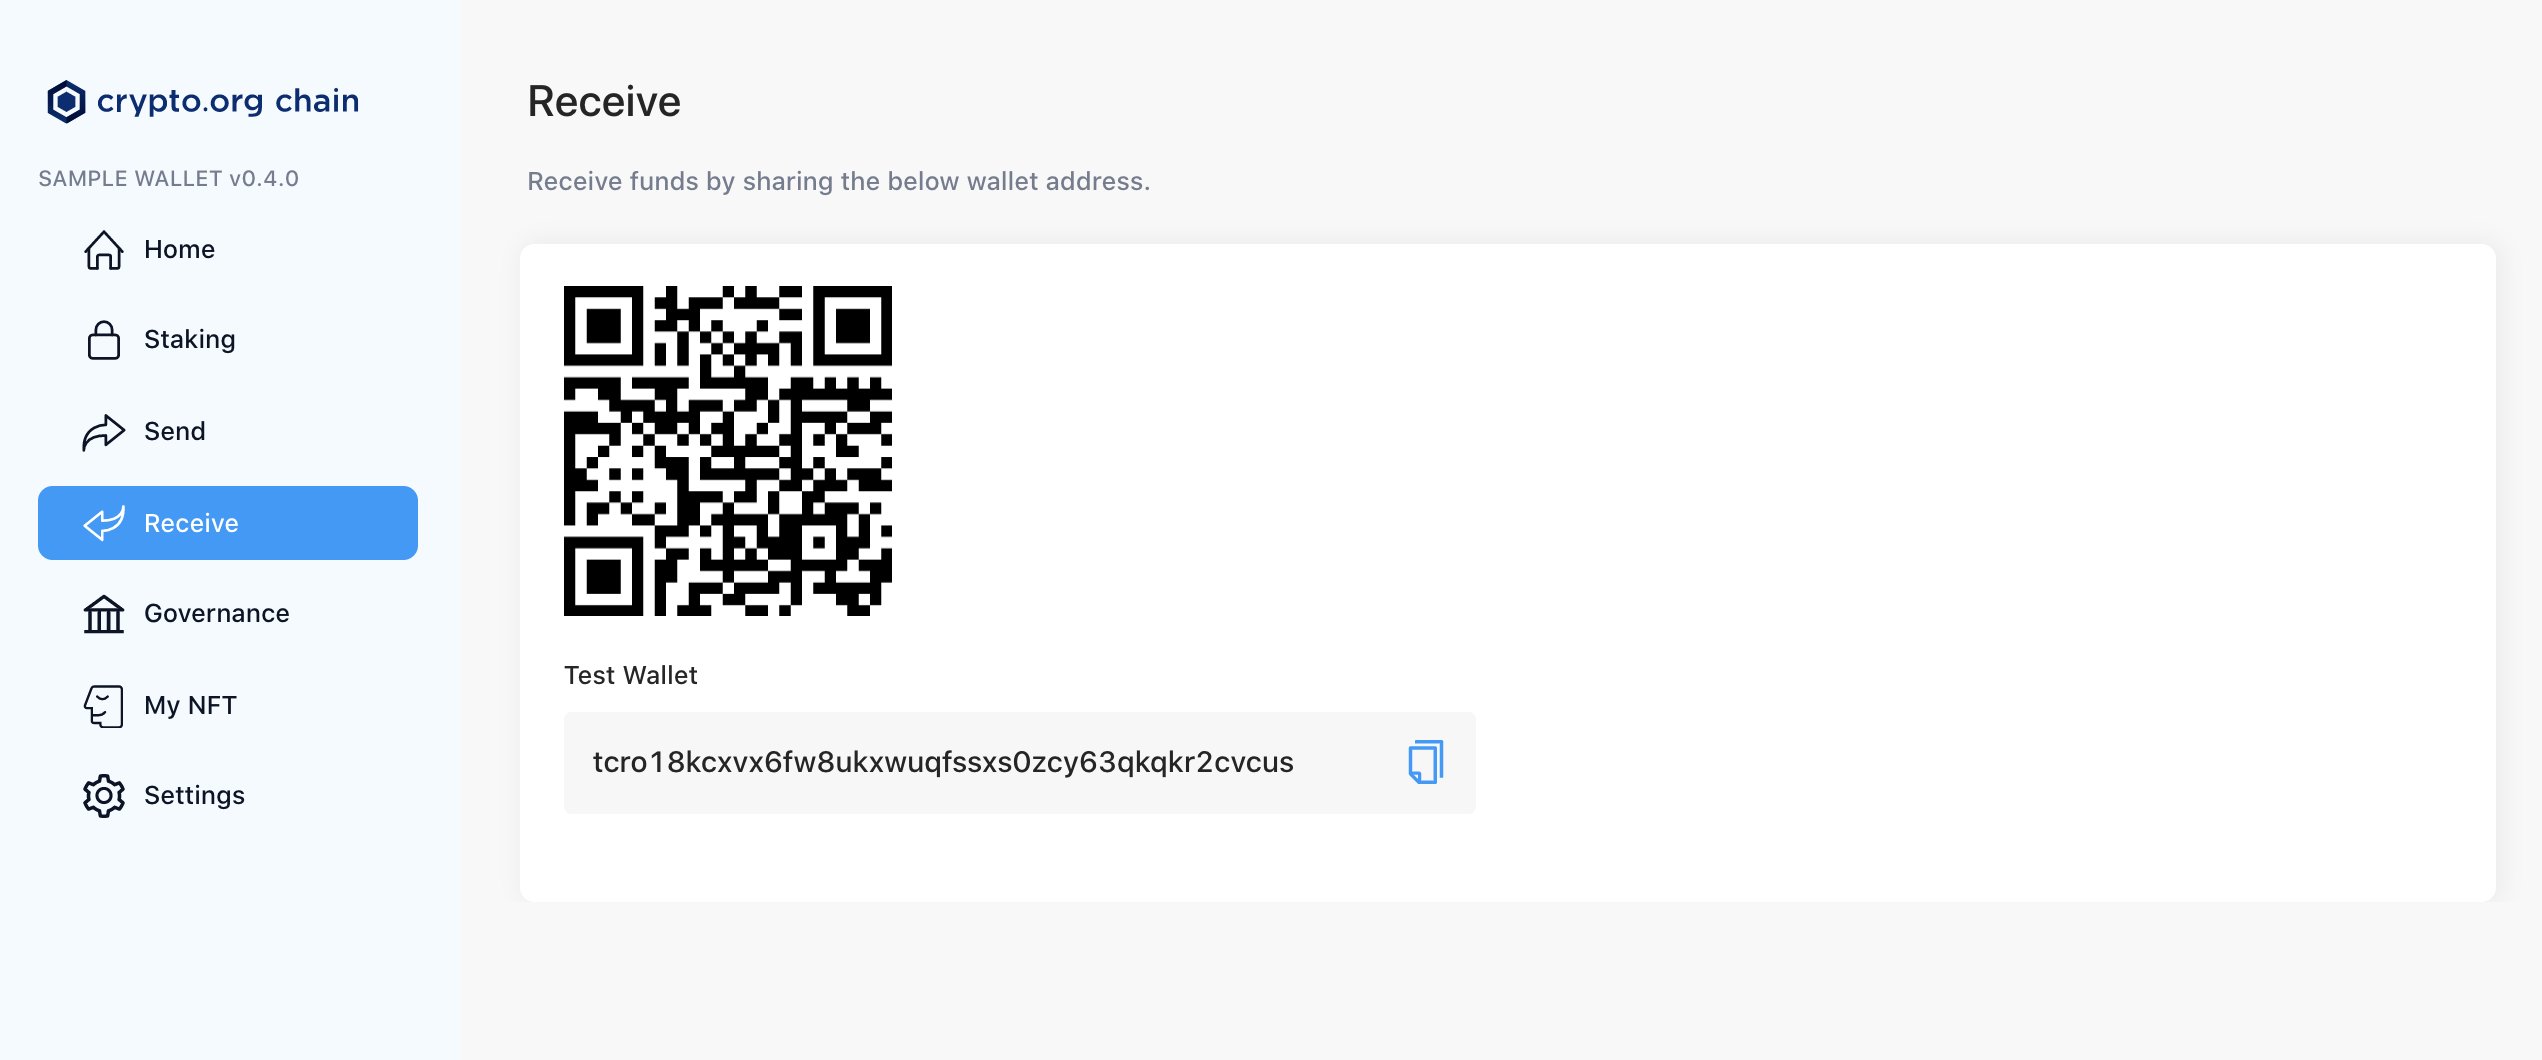
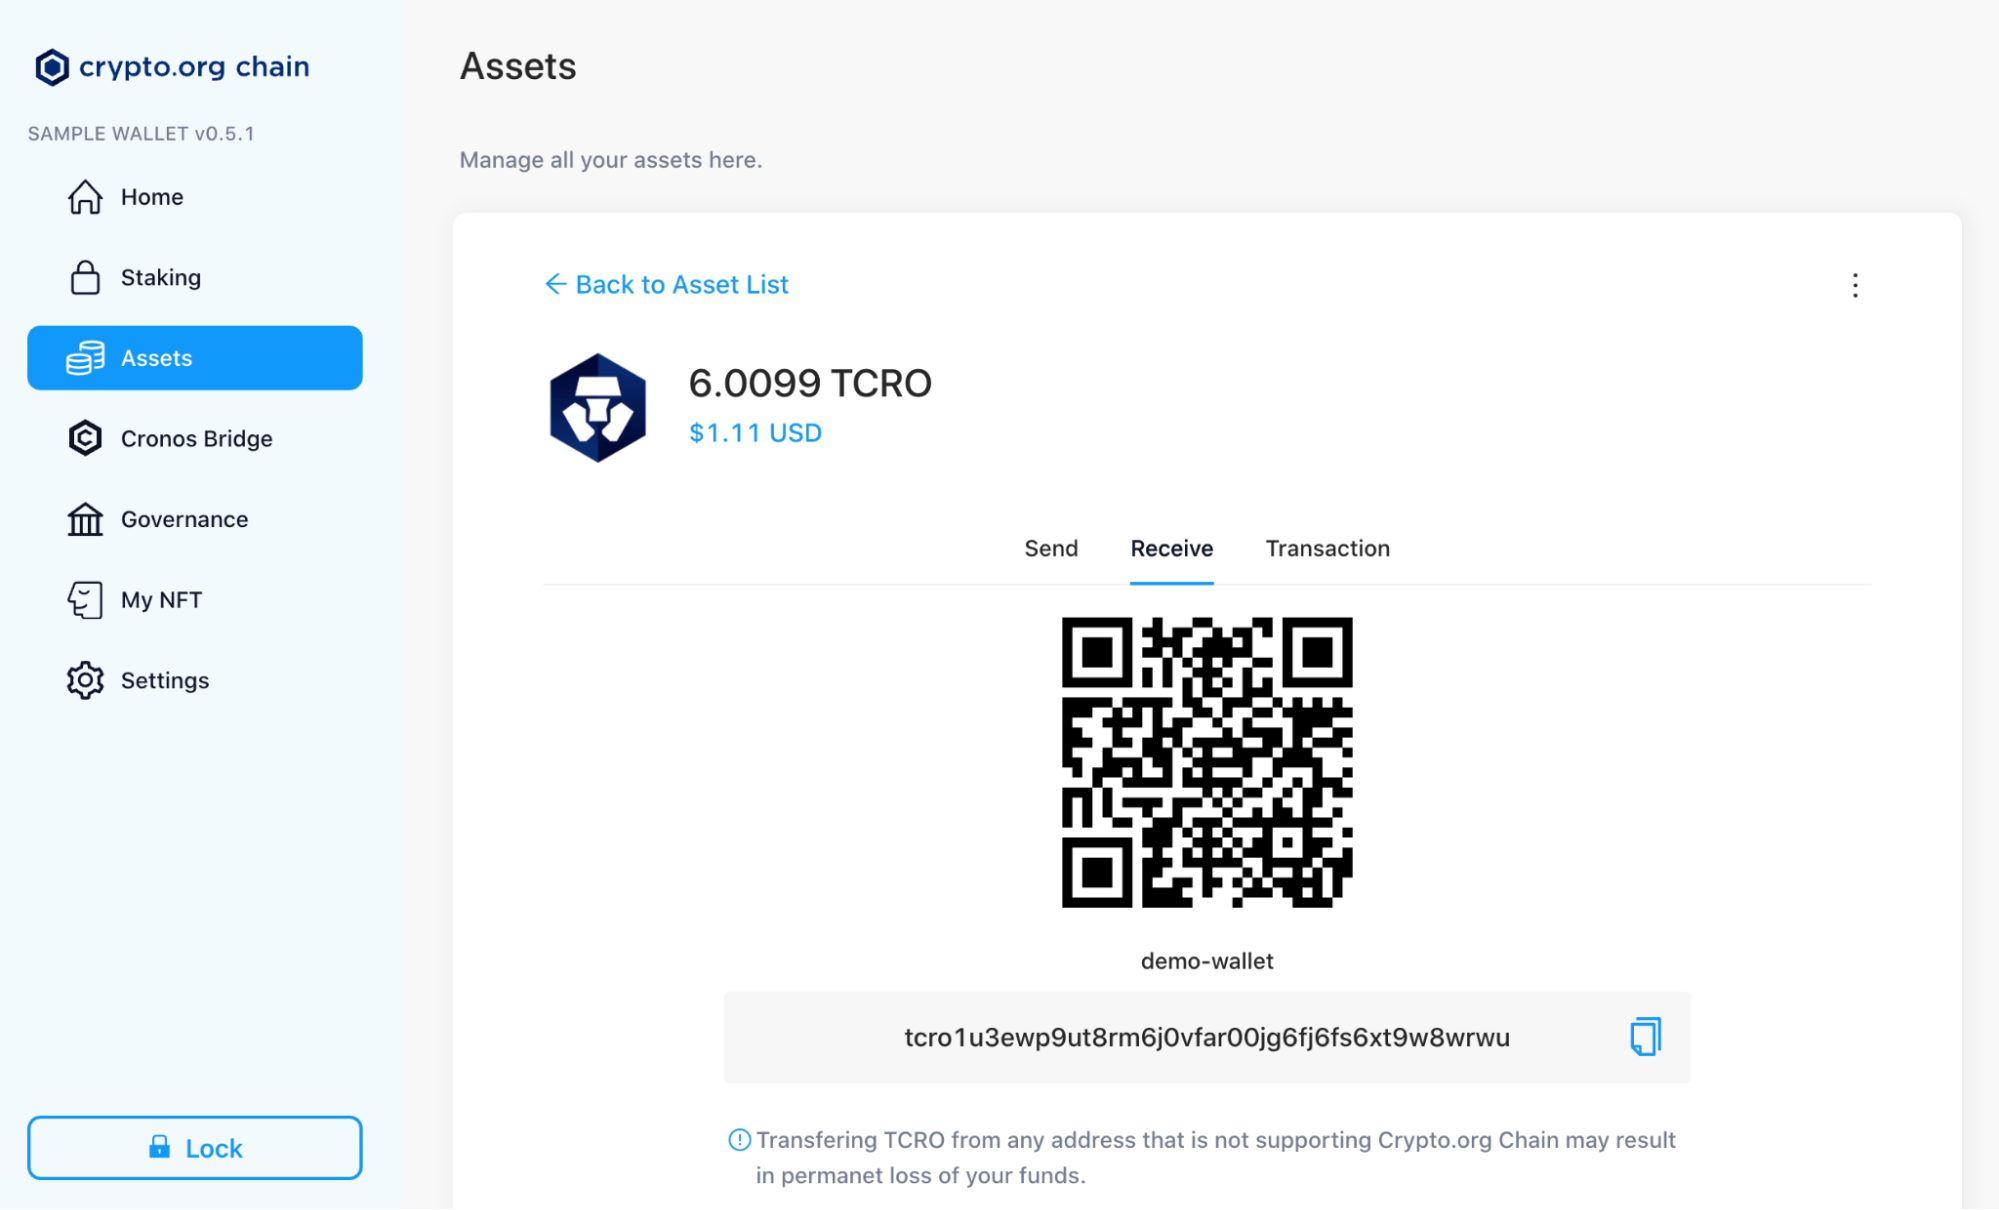
Updated Assets & Staking

diff --git a/docs/wallets/desktop_wallet.md b/docs/wallets/desktop_wallet.md
@@ -73,27 +73,42 @@ You can find the list of all your wallets by clicking the bottom left button and
 ## 2. Transactions
 
 ### 2.1 - Sending Transactions
-Sending funds is easy with the Desktop Wallet. Ensure that you have enough funds before you perform the sending operation (do not forget that you can always request some testing tokens in [faucet](https://crypto.org/faucet)). In case you have reached the daily limit on faucet airdrop, you can simply send a message on [Discord #request-tcro channel](https://discord.gg/c7vSX4TSrf).
+Sending funds is easy with the Desktop Wallet. Ensure that you have enough funds before you perform the sending operation.
+Do not forget that you can always request some testing tokens in faucet: 
 
-- **Step 1** - Select the "*Send*" on the left panel, fill up the request information: 
+| Asset | Faucet |
+| :---: | --- | --- |
+| CRO (Crypto.org Chain) | [https://crypto.org/faucet](https://crypto.org/faucet) |
+| CRO (Cronos Chain) | [https://cronos.crypto.org/faucet](https://cronos.crypto.org/faucet) |
+
+In case you have reached the daily limit on faucet airdrop, you can simply send a message on [Discord #request-tcro channel](https://discord.gg/c7vSX4TSrf).
+
+- **Step 1** - Select the "*Assets*" on the left panel, and you will see the "*Send*" and "*Receive*" options on the left right of each asset. 
+        <img src="./assets/desktop_wallet/2-1-1.png" />
+After you click the "*Send*", fill up the request information:
     - recipient address
     - amount to be sent 
     - optional memo
-        <img src="./assets/desktop_wallet/2-1-1.png" />
-
-- **Step 2** - Once you hit the "*Continue*" button, you can review the transaction details in the confirmation window on the Desktop Wallet and proceed to the next step by clicking "*Confirm*". Then enter your app password and hit "*Decrypt Wallet*".
         <img src="./assets/desktop_wallet/2-1-2.png" />
 
-- **Step 3** - In the "*Confirm Transaction*" page, please double-check the information and make sure the information you entered is correct. Now you can go with "*Confirm*" and click "*OK*" on the next page.
+- **Step 2** - Once you hit the "*Continue*" button, you can review the transaction details in the confirmation window on the Desktop Wallet and proceed to the next step by clicking "Confirm". Then enter your app password and hit "*Decrypt Wallet*".
         <img src="./assets/desktop_wallet/2-1-3.png" />
 
-- **Step 4** - Now your funds have been transferred successfully to your selected address! You can then check the transaction history under “Transaction” at the “Home” page.
+- **Step 3** - In the "*Confirm Transaction*" section, please double-check the information and make sure the information you entered is correct. Now you can go with "*Confirm*" and click "*OK*" on the next page.
         <img src="./assets/desktop_wallet/2-1-4.png" />
+
+- **Step 4** - Now your funds have been transferred successfully to your selected address! You can then check the transaction history by clicking "*Transaction*" tab under any of your Assets.
         <img src="./assets/desktop_wallet/2-1-5.png" />
+        <img src="./assets/desktop_wallet/2-1-6.png" />
 
 ### 2.2 - Receive Transactions
-If someone is sending funds or you are sending funds from your other account to the current account, you can simply show the bar code or the address of your current account.
+If someone is sending funds to you or you are sending funds from your other address to the current address, you can: 
+- **Step 1** - Under the "*Assets*" page, you will see the “Send” and “Receive” tabs on the left-right of each asset. Click "*Receive*".
+        <img src="./assets/desktop_wallet/2-1-1.png" />
+        
+- **Step 2** - You will find the QR code and the address of your current wallet account.
         <img src="./assets/desktop_wallet/2-2.png" />
+
 
 ## 3. Staking Operations
 Crypto.org Chain is based on Tendermint Core's consensus engine, it relies on a set of validators to participate in the proof of stake (PoS) consensus protocol who are responsible for committing new blocks in the blockchain. Token holders might stake their tokens to validators to secure the network and earn rewards. Particularly, we can:
@@ -103,7 +118,7 @@ Crypto.org Chain is based on Tendermint Core's consensus engine, it relies on a 
 - Undelegate from a validator.
 
 ### 3.1 - Delegate to a validator
-- **Step 1** - To begin staking, please direct to "*Delegate Funds*" under the Staking option. You can choose one of the active validators that you would like to delegate to: 
+- **Step 1** - To begin staking, go to "*Staking*" page and direct to the second tab "*Delegate Funds*". You can choose one of the active validators that you would like to delegate to, and enter the delegation amount. 
         <img src="./assets/desktop_wallet/3-1-1-1.png" />
 You can input the validator’s information either by:
     - Clicking the list button under "*Validator address*", and selecting your preferred validators. 
@@ -111,38 +126,37 @@ You can input the validator’s information either by:
 
     - Copying the complete address of your preferred validator, and pasting the validator’s "*Operator Address*" (begin with `tcrocncl...` for testnet) under "*Validator address*". Then specify the amount that you would like to delegate.
 
-**Remark**: You can look up validators and their operator address by the validator list on the [explorer](https://crypto.org/explorer/validators).
+**Remark**: To help better improve our network’s decentralization, we suggest you delegate your funds to validators with fewer shares..
 
 - **Step 2** - Similar to sending a transaction, you can review and confirm the transaction details on the Desktop Wallet first shown below, click "*Review*" and enter your app password.
         <img src="./assets/desktop_wallet/3-1-2.png" />
 
-- **Step 3** - Now you will proceed to the confirmation page. Make sure you input the correct information of your wallet and then hit "*Confirm*". 
+- **Step 3** - Now you will proceed to the confirmation section. Make sure you input the correct information of your wallet and then hit "*Confirm*". 
         <img src="./assets/desktop_wallet/3-1-3-1.png" />
         <img src="./assets/desktop_wallet/3-1-3-2.png" />
 Now you’ve successfully staked the desired amount to your selected validator!
 
 ### 3.2 - Withdraw the reward from a validator
-- **Step 1** - Under "*Staking Rewards*" on the Staking page, your staking reward amount from different validators will be displayed as below:
+- **Step 1** - Under "*Staking Rewards*" on the "*Staking*" page, your staking reward amount from different validators will be displayed as below:
         <img src="./assets/desktop_wallet/3-2-1.png" />
 - **Step 2** - Click the "*Withdraw Reward*" under "*Action*", and input your app password. Similar to other transaction operations, you should review and double-check the transaction details "*Confirm*" before processing "*Confirm*". 
         <img src="./assets/desktop_wallet/3-2-2.png" />
 Please note that all of your available rewards from a validator will be withdrawn in the transaction.
 
 Now you should see a success message on the Desktop Wallet, and your rewards withdrawal transaction was broadcasted successfully!
-        <img src="./assets/desktop_wallet/3-2-3.png" />
 
 ### 3.3 - Redelegate the staking from a validator
-- **Step 1** - In the case that you plan to redelegate your staked funds from a validator, you can check your current relegation status at the bottom "*Relegation*" section under the "*Home*" page:
+- **Step 1** - In the case that you plan to redelegate your staked funds from a validator, you can go to Delegation Management under the "*Staking*" page. The "*Redelegate Stake*" option is highlighted in green color. 
         <img src="./assets/desktop_wallet/3-3-1.png" />
 
-- **Step 2** - You can redelegate your staked tokens from a validator by clicking "*Redelegate Stake*". Likewise to [delegating to a validator](#_3-1-delegate-to-a-validator), you can either choose your preferred validator from the validator list or input its complete address. Specify the amount of token that you would like to redelegate from a validator, review and confirm the transaction details on the Desktop Wallet, input your app password again, then click "*Confirm*" to process.
+- **Step 2** - You can click "*Redelegate Stake*" to redelegate your staked tokens from a validator now. On the popup window, likewise to [delegating to a validator](#_3-1-delegate-to-a-validator), you will be required to fill in the validator’s address(you can either choose your preferred validator from the validator list or input its complete address), and the amount that you would like to redelegate from a validator, review and confirm the transaction details on the Desktop Wallet, input your app password again, then click "*Confirm*" to process.
         <img src="./assets/desktop_wallet/3-3-2.png" />
         <img src="./assets/desktop_wallet/3-3-3.png" />
 
 Now you should see a success message on the Desktop Wallet, and your funds are redelegated to another preferred validator!
 
 ### 3.4 - Undelegate the staking from a validator
-- **Step 1** - In the case that you plan to undelegate your staked funds from a validator, you can check your current delegation status at the bottom "*Delegation*" section under the "*Home*" page:
+- **Step 1** - If you plan to undelegate your staked funds from a validator, you can go to Delegation Management under the "*Staking*" page. "*Undelegate Stake*" option is highlighted in red color. 
         <img src="./assets/desktop_wallet/3-4-1.png" />
 
 - **Step 2** - You can undelegate your staked tokens from a validator by clicking "*Undelegate Stake*". Afterwards, you can specify the amount of token that you would like to undelegate from a validator, review and confirm the transaction details on the Desktop Wallet, input your app password again, then click "*Confirm*" to process.
@@ -150,6 +164,14 @@ Now you should see a success message on the Desktop Wallet, and your funds are r
         <img src="./assets/desktop_wallet/3-4-3.png" />
 
 Now you should see a success message on the Desktop Wallet, and your undelegation transaction was successfully processed!
+
+
+  ::: tip NOTE
+
+  - You can review your undelegation process by clicking "*View Unbonding Delegation*" at the top right corner in the "*Delegation Management*" section. 
+<img src="./assets/desktop_wallet/3-4-4.png" />
+
+  :::
 
 ## 4. Governance
 Governance proposals potentially impact many stakeholders. You are able to view all the concurrent voting, finished or rejected proposals, and cast your votes here. 

diff --git a/docs/wallets/ledger_desktop_wallet.md b/docs/wallets/ledger_desktop_wallet.md
@@ -85,7 +85,7 @@ Verify the address by clicking "*Verify address on Ledger*", you should see the 
 
 - **Step 3.2** - Once the address has been confirmed, copy this address and request some funds from the [testnet faucet](https://crypto.org/faucet)
 
-| App | Supported Assets |
+| Asset | Faucet |
 | :---: | --- | --- |
 | CRO (Crypto.org Chain) | [https://crypto.org/faucet](https://crypto.org/faucet) |
 | CRO (Cronos Chain) | [https://cronos.crypto.org/faucet](https://cronos.crypto.org/faucet) |
